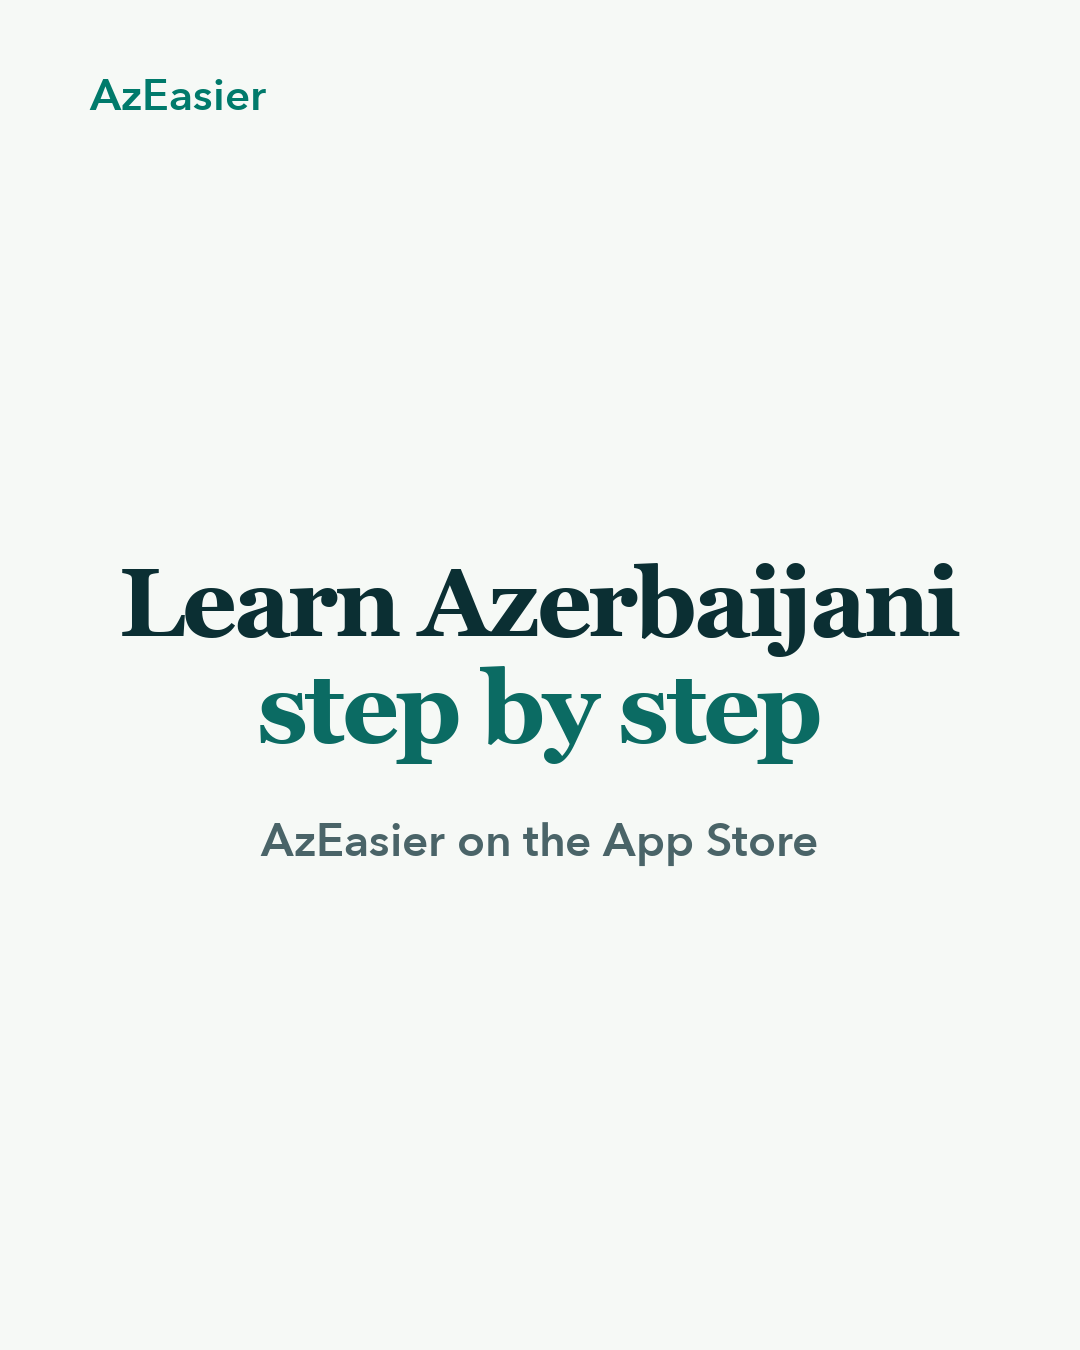
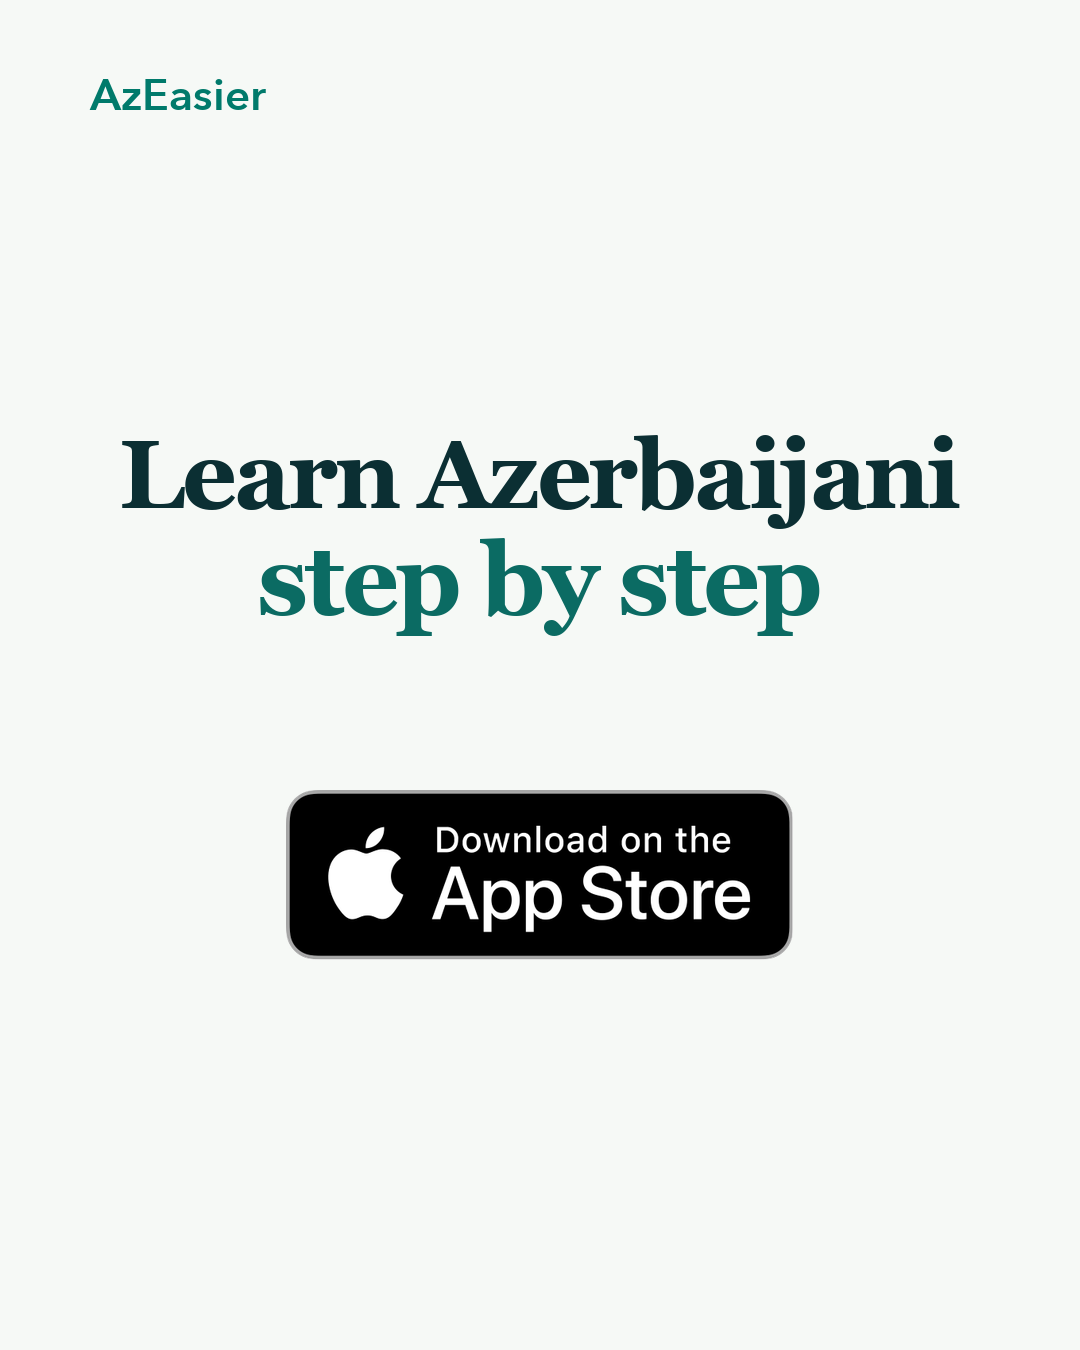
Add temporary pilot review page and refresh last slides (App Store badge)

Changed region(s): [[0.1222, 0.3111, 0.8861, 0.7156]]

diff --git a/marketing-test/index.html b/marketing-test/index.html
@@ -1,0 +1,3 @@
+<!doctype html><html lang="en"><head><meta charset="utf-8"><meta name="viewport" content="width=device-width,initial-scale=1"><meta name="robots" content="noindex,nofollow"><title>AzEasier pilot review (temporary)</title>
+<style>body{font:16px system-ui;margin:16px;max-width:720px}.g{display:grid;gap:8px}img{width:100%;height:auto;border:1px solid #ccc}.c{background:#f4f4f4;padding:8px}</style></head>
+<body><h1>AzEasier pilot review</h1><p>Temporary page, owner only. Delete after the trial.</p><h2>RU</h2><p class="c">Азербайджанский: Пять слов. Проверьте урок перед публикацией</p><div class="g"><img src="a1-ru/01.png" loading="lazy" alt="RU slide 1"><img src="a1-ru/02.png" loading="lazy" alt="RU slide 2"><img src="a1-ru/03.png" loading="lazy" alt="RU slide 3"><img src="a1-ru/04.png" loading="lazy" alt="RU slide 4"><img src="a1-ru/05.png" loading="lazy" alt="RU slide 5"><img src="a1-ru/06.png" loading="lazy" alt="RU slide 6"><img src="a1-ru/07.png" loading="lazy" alt="RU slide 7"></div><h2>EN</h2><p class="c">Azerbaijani lesson source: Five words. Review before publishing</p><div class="g"><img src="a1-en/01.png" loading="lazy" alt="EN slide 1"><img src="a1-en/02.png" loading="lazy" alt="EN slide 2"><img src="a1-en/03.png" loading="lazy" alt="EN slide 3"><img src="a1-en/04.png" loading="lazy" alt="EN slide 4"><img src="a1-en/05.png" loading="lazy" alt="EN slide 5"><img src="a1-en/06.png" loading="lazy" alt="EN slide 6"><img src="a1-en/07.png" loading="lazy" alt="EN slide 7"></div></body></html>
